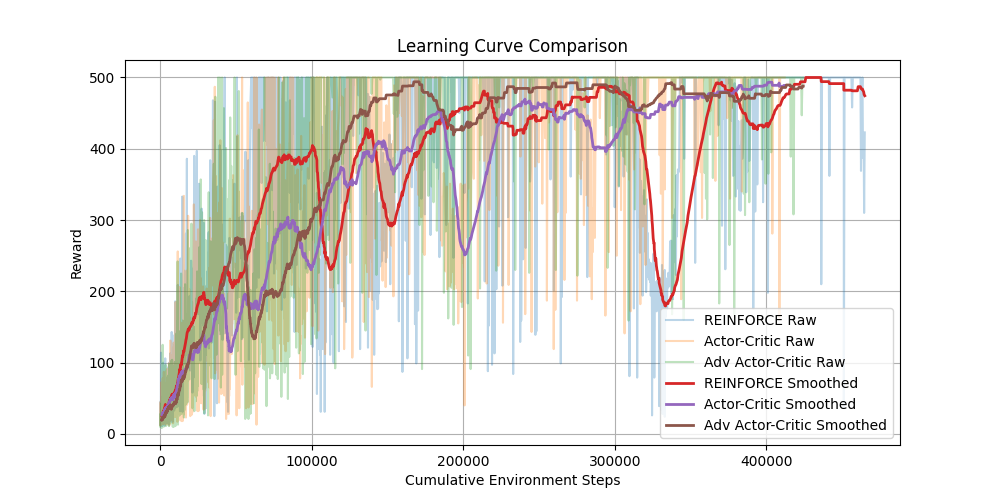
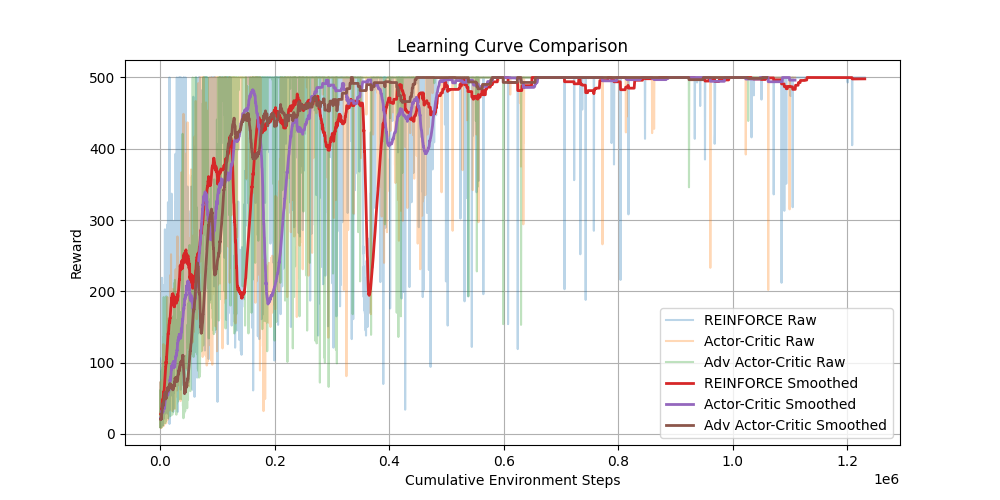
update train.py

diff --git a/train.py b/train.py
@@ -10,7 +10,7 @@ def moving_average(data, window_size):
 
 def main():
     # Define global parameters here
-    num_episodes = 1500         # Total training episodes
+    num_episodes = 3000         # Total training episodes
     learning_rate = 1e-3        # Learning rate
     gamma = 0.99                # Discount factor
     hidden_dim = 128            # Number of hidden neurons
